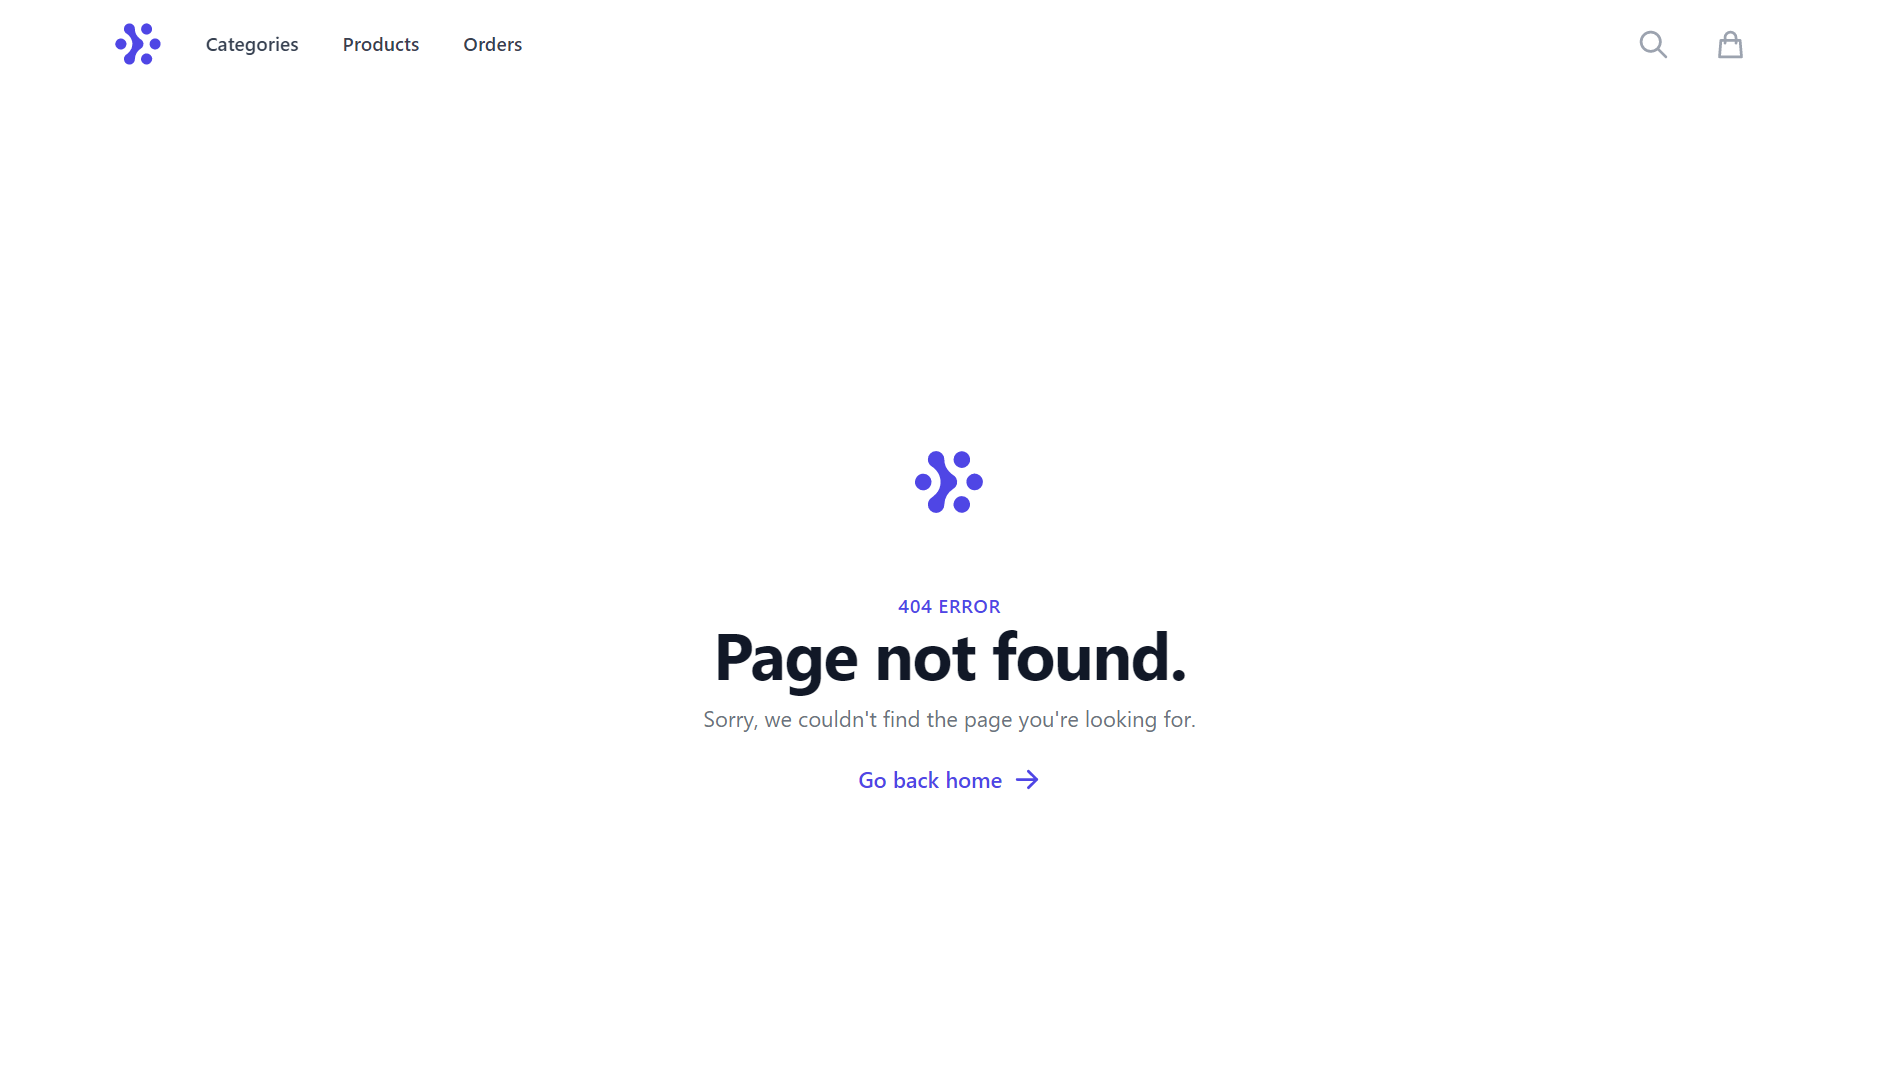
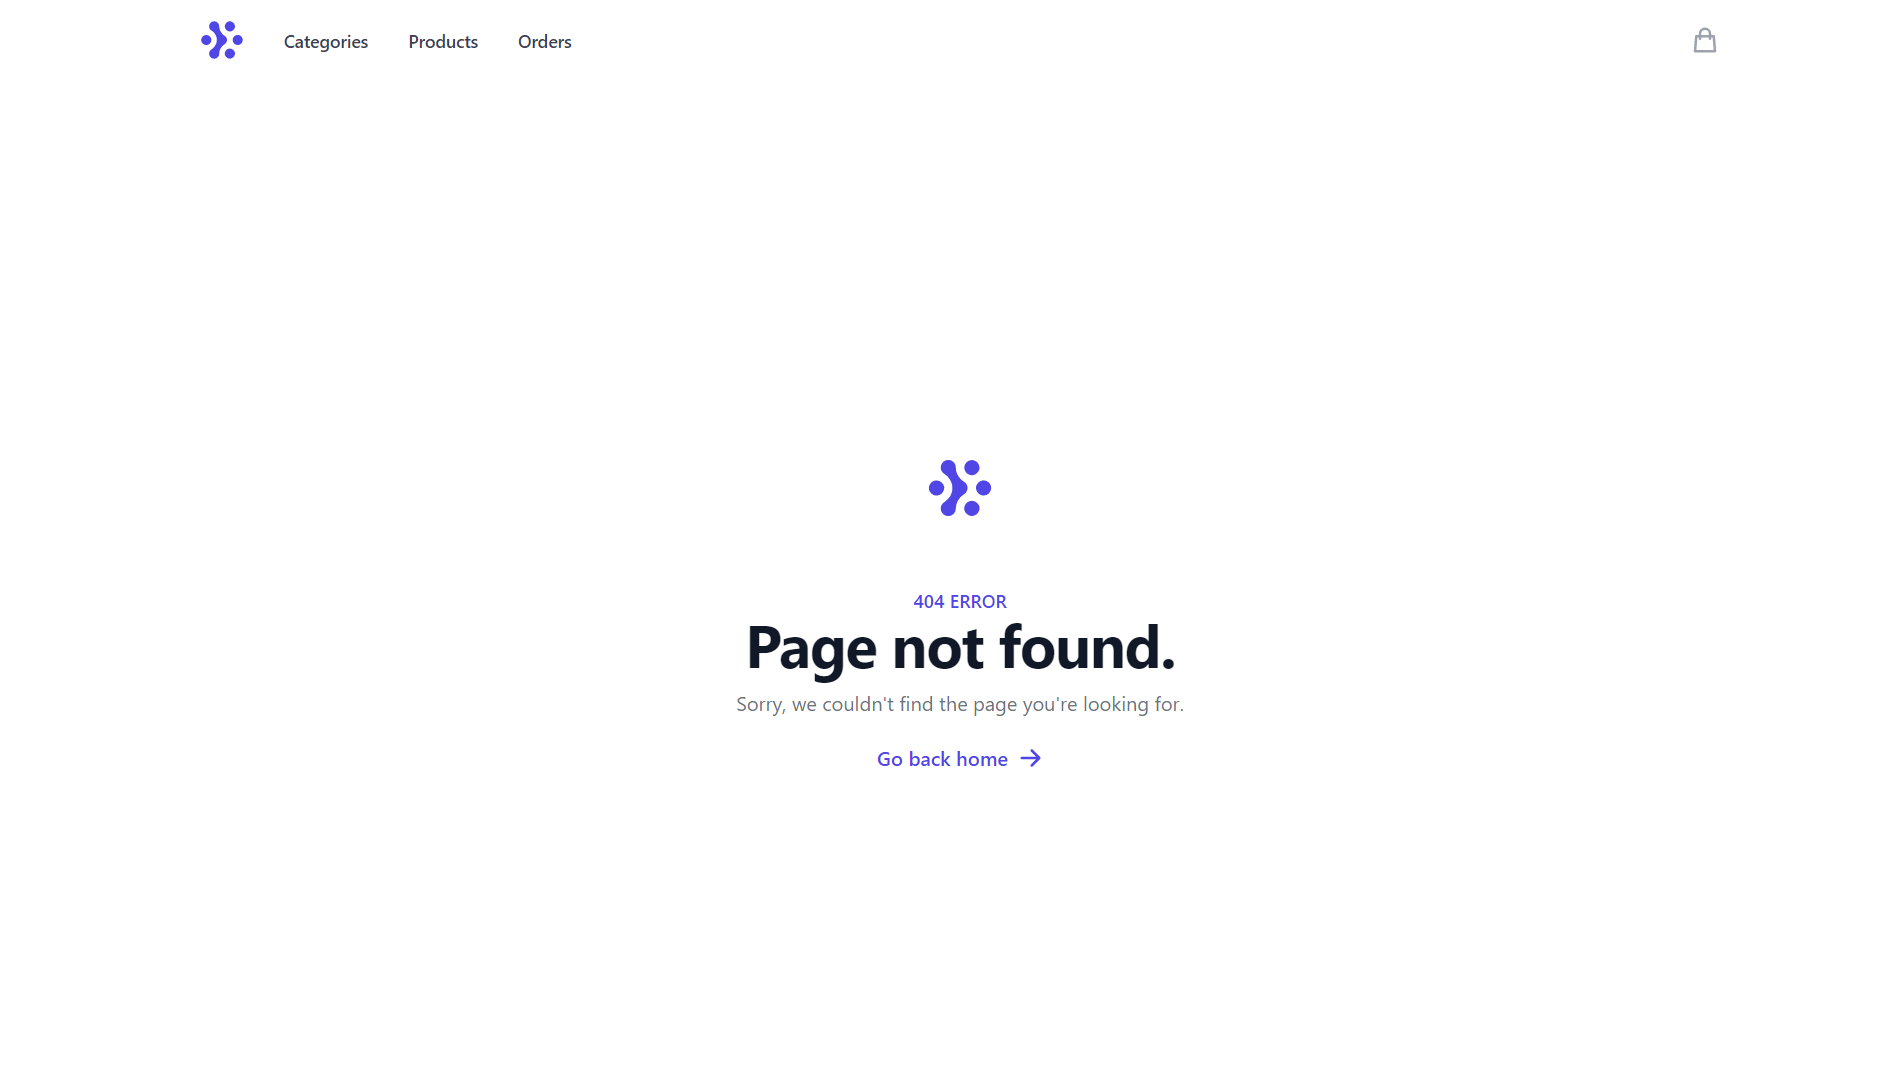
eCommerceApp | Screenshots added.

diff --git a/client/src/components/Cart/Cart.js b/client/src/components/Cart/Cart.js
@@ -1,16 +1,27 @@
-import { useContext} from "react";
+import { useState, useContext, Fragment } from "react";
 import CartContext from "../../contexts/CartProvider";
 import { Link } from "react-router-dom";
-import { InformationCircleIcon } from "@heroicons/react/outline";
+import {
+  InformationCircleIcon,
+  CheckCircleIcon,
+} from "@heroicons/react/outline";
+import { Dialog, Transition } from "@headlessui/react";
 import { baseService } from "../../services/ApiCall";
-
 
 const Cart = () => {
   const { cart, setCart } = useContext(CartContext);
-  // const cart = JSON.parse(localStorage.getItem('cart'));
+  const [isOpen, setIsOpen] = useState(false);
+
+  //#region Close modal
+  const closeModal = () => {
+    setIsOpen(false);
+  };
+  //#endregion
 
   //#region Total price and shipping calculating operations
-  const calculateSubtotal = parseFloat(cart.reduce((a, b) => a + b.price * b.quantity, 0).toFixed(2));
+  const calculateSubtotal = parseFloat(
+    cart.reduce((a, b) => a + b.price * b.quantity, 0).toFixed(2)
+  );
   //orders under 100$ shipping charge is 10% of total charge
   const calculateShipping = (total) => {
     let price = parseFloat(total);
@@ -22,15 +33,19 @@ const Cart = () => {
 
   //#region Total amount to be paid
   const calculateTotal = () => {
-    return parseFloat((calculateSubtotal + calculateShipping(calculateSubtotal)).toFixed(2));
+    return parseFloat(
+      (calculateSubtotal + calculateShipping(calculateSubtotal)).toFixed(2)
+    );
   };
   //#endregion
-  
+
   //#region Amount of items in cart
   const increaseQuantity = (product) => {
     setCart((prev) => {
       let cartItem = prev.find((q) => q.id === product.id);
-      product.quantity < 10 ? (cartItem.quantity += 1) : cartItem.quantity = 10;
+      product.quantity < 10
+        ? (cartItem.quantity += 1)
+        : (cartItem.quantity = 10);
       return [...prev];
     });
   };
@@ -43,25 +58,36 @@ const Cart = () => {
   };
 
   //#endregion
-  
-    const addOrder = async () => {
+
+  //#region Remove item from cart
+  const removeItem = (id) => {
+    setCart((prev) => prev.filter((q) => q.id !== id));
+  };
+  //#endregion
+
+  //#region Add order
+  const addOrder = async () => {
     try {
-        if (cart.length > 0) {
-            const products=cart.map(x => ({productId:x.id,quantity:x.quantity}))
-            const d= new Date();
-            const data = {userId:2, date: d, products:products };
-            await baseService.post('/carts', data)
-            console.log("Successfully added to cart", data)
-            setCart([]);
-        } else {
-            throw new Error('[ERROR]: Cart is empty');
-        }
+      if (cart.length > 0) {
+        const products = cart.map((x) => ({
+          productId: x.id,
+          quantity: x.quantity,
+        }));
+        const d = new Date();
+        const data = { userId: 2, date: d, products: products };
+        await baseService.post("/carts", data);
+        console.log("Successfully added to cart", data);
+        setCart([]);
+        setIsOpen(true);
+      } else {
+        throw new Error("[ERROR]: Cart is empty");
+      }
     } catch (err) {
-        console.log('[ERROR]: ', err);
+      console.log("[ERROR]:", err);
     }
     // console.log(cart);
-}
-  const removeItem = (id) => {setCart(prev => prev.filter(q => q.id !== id))};
+  };
+  //#endregion
 
   return (
     <>
@@ -72,6 +98,69 @@ const Cart = () => {
               Shopping Cart
             </h1>
           </div>
+          {/*#region Order Successfully added to cart*/}
+          <Transition appear show={isOpen} as={Fragment}>
+            <Dialog
+              as="div"
+              className="fixed inset-0 z-10 overflow-y-auto"
+              onClose={closeModal}
+            >
+              <div className="min-h-screen px-4 text-center">
+                <Transition.Child
+                  as={Fragment}
+                  enter="ease-out duration-300"
+                  enterFrom="opacity-0"
+                  enterTo="opacity-100"
+                  leave="ease-in duration-200"
+                  leaveFrom="opacity-100"
+                  leaveTo="opacity-0"
+                >
+                  <Dialog.Overlay className="fixed inset-0 bg-black/40"/>
+                </Transition.Child>
+
+                {/* This element is to trick the browser into centering the modal contents. */}
+                <span
+                  className="inline-block h-screen align-middle"
+                  aria-hidden="true"
+                >
+                  &#8203;
+                </span>
+                <Transition.Child
+                  as={Fragment}
+                  enter="ease-out duration-300"
+                  enterFrom="opacity-0 scale-95"
+                  enterTo="opacity-100 scale-100"
+                  leave="ease-in duration-200"
+                  leaveFrom="opacity-100 scale-100"
+                  leaveTo="opacity-0 scale-95"
+                >
+                  <div className="inline-block w-full max-w-md py-8 my-8 overflow-hidden text-center align-middle transition-all transform bg-white shadow-xl rounded-lg">
+                    <CheckCircleIcon className="w-14 h-14 text-indigo-600 text-center mx-auto mb-4" />
+                    <Dialog.Title
+                      as="h3"
+                      className="text-lg font-medium leading-6 text-gray-900 text-center"
+                    >
+                      Thank you!
+                    </Dialog.Title>
+                    <div className="mt-2">
+                      <p className="text-sm text-gray-500 w-4/5 m-auto mb-5">
+                        Your order has been successfully created. We’ve sent you
+                        an email with all of the details of your order.
+                      </p>
+                    </div>
+                    <Link
+                      to="/"
+                      className="text-indigo-600 tracking-tight font-semibold hover:text-indigo-400"
+                    >
+                      Go to home page
+                    </Link>
+                  </div>
+                </Transition.Child>
+              </div>
+            </Dialog>
+          </Transition>
+          {/*#endregion */}
+
           <div
             className={
               cart.length > 0
@@ -113,11 +202,19 @@ const Cart = () => {
                       </div>
                       <div className="flex flex-1 mt-5 items-end justify-between text-sm">
                         <div className="flex items-center">
-                          <button onClick={() => decreaseQuantity(product)} className="flex items-center justify-center w-6 h-6 pb-1 rounded-full bg-indigo-100  font-bold text-indigo-600 active:bg-indigo-300">
+                          <button
+                            onClick={() => decreaseQuantity(product)}
+                            className="flex items-center justify-center w-6 h-6 pb-1 rounded-full bg-indigo-100  font-bold text-indigo-600 active:bg-indigo-300"
+                          >
                             -
                           </button>
-                          <p className="text-gray-500 px-3 ">{product.quantity}</p>
-                          <button onClick={() => increaseQuantity(product)} className="flex items-center justify-center w-6 h-6 pb-1 rounded-full bg-indigo-100  font-bold text-indigo-600 active:bg-indigo-300">
+                          <p className="text-gray-500 px-3 ">
+                            {product.quantity}
+                          </p>
+                          <button
+                            onClick={() => increaseQuantity(product)}
+                            className="flex items-center justify-center w-6 h-6 pb-1 rounded-full bg-indigo-100  font-bold text-indigo-600 active:bg-indigo-300"
+                          >
                             +
                           </button>
                         </div>
@@ -139,7 +236,7 @@ const Cart = () => {
             <div
               className={
                 cart.length > 0
-                  ? "flex flex-col py-8 lg:px-14 bg-gray-50 rounded-lg h-max md:w-1/3 md:ml-10"
+                  ? "flex flex-col py-8 px-8 lg:px-14 bg-gray-50 rounded-lg h-max md:w-1/3 md:ml-10"
                   : "hidden"
               }
             >
@@ -162,7 +259,10 @@ const Cart = () => {
                 <p className="">{calculateTotal()} $</p>
               </div>
               <div className="mt-6 flex flex-col">
-                <button className="rounded-md border border-transparent bg-indigo-600 px-6 py-3 text-base font-medium text-white shadow-sm hover:bg-indigo-700" onClick={addOrder}>
+                <button
+                  className="rounded-md border border-transparent bg-indigo-600 px-6 py-3 text-base font-medium text-white shadow-sm hover:bg-indigo-700"
+                  onClick={addOrder}
+                >
                   Checkout
                 </button>
                 <button

diff --git a/client/src/components/Order/OrderList.js b/client/src/components/Order/OrderList.js
@@ -1,4 +1,5 @@
 import { useState, useEffect } from "react";
+import { Link } from "react-router-dom";
 import { baseService } from "../../services/ApiCall";
 
 const OrderList = () => {
@@ -42,18 +43,23 @@ const OrderList = () => {
             key={order.id}
             className="mx-auto pt-10 pb-16 sm:pb-24 lg:pb-32 lg:max-w-7xl"
           >
-            <h3>{order.date}</h3>
+            {/* <h3>{order.date}</h3> */}
+            <div className="flex flex-col">
             {order.products.map((product) => (
-              <div key={product.productId}>
-                {product.productId} - Qty {product.quantity}
+              <div key={product.productId} className="flex flex-col px-10 pt-5 gap-y-10 border-b border-gray-200">
                 {
                   products.filter((p) => p.id === product.productId).map(product =>
-                    (<div>
-                      {product.image}
+                    (<div key={product.id} className="flex flex-row">
+                      <img src={product.image} alt="product" className="w-24 h-24 object-contain rounded-md border border-gray-200 bg-white mr-11"/>
+                      <Link to={`/products/${product.id}`}>
+                      <h5 className="font-bold text-justify">{product.title}</h5>
+                      </Link>
                     </div>))
                 }
+              <p className="relative md:bottom-20 md:left-36 md:-mb-8">Quantity: {product.quantity}</p> 
               </div>
             ))}
+            </div>
           </div>
         ))}
       </section>

diff --git a/client/src/components/Header/Header.js b/client/src/components/Header/Header.js
@@ -117,12 +117,12 @@ export default function Header() {
               <div className="ml-auto flex items-center">
 
                 {/* Search */}
-                <div className="flex lg:ml-6">
+                {/* <div className="flex lg:ml-6">
                   <a href="/" className="p-2 text-gray-400 hover:text-gray-500">
                     <span className="sr-only">Search</span>
                     <SearchIcon className="w-6 h-6" aria-hidden="true" />
                   </a>
-                </div>
+                </div> */}
 
                 {/* Cart */}
                 <div className="ml-4 flow-root lg:ml-6">

diff --git a/client/src/components/Products/Products.js b/client/src/components/Products/Products.js
@@ -42,8 +42,9 @@ const getProducts = async () => {
         } else {
             const cartProduct = {
                 id: product.id,
-                title: product.name,
-                price: product.unitPrice,
+                title: product.title,
+                price: product.price,
+                image:product.image,
                 quantity: 1
             }
 

diff --git a/client/src/components/ProductDetail/ProductDetail.js b/client/src/components/ProductDetail/ProductDetail.js
@@ -109,7 +109,7 @@ const getProducts = async () => {
                   aria-current="page"
                   className="font-medium text-gray-500 hover:text-gray-600"
                 >
-                  {product.name}
+                  {product.title}
                 </Link>
               </li>
             </ol>

diff --git a/README.md b/README.md
@@ -1,18 +1,43 @@
 # eCommerceApp
 ## About Project
 
-This repository contain an e-commerce app project. Northwind APIs were used 
-Context API was used for state management.
-Tailwind CSS was used for UI design.
+This repository contains an e-commerce app project developed with React. In this project, [Fake Store API](https://fakestoreapi.com/) was used as service, Context API was used for state management and Tailwind CSS was used for UI design. No authentication system was used.
 
-## Installation
-
+- **Home:** Home page contains Categories Section and Top 10 Products Section. All categories are shown in Categories Section and first 10 products fetched from API are listed in Top 10 Products Section. 
+- **Categories:** All categories are listed in categories section. Customer can view products by category when they click any category. 
+- **Products:** All fetched products from API are listed in products section. Customer can view product detail when they click the product and add to cart by clicking "Add to basket" button.
+- **Cart:** All products in the cart, shipping charge and total price are listed in cart page. According to this scenario, shipping charge is calculated as 10% of total price in orders under 100\$. Shipping is free of charge in orders over 100\$. 
+Customer can increase/decrease quantity of products or remove any item or empty the cart by clicking "Empty the cart" button if they want. Order is created when "Checkout" button is clicked.
+- **Orders:** Customer can display their all orders in orders section. Name, image and quantity of products can be viewed in orders.
 ## Screenshots
 #### Desktop Screenshots
 
+![ss-desktop](./screenshots/screenshot-desktop-home.png)
+<br> 
+![ss-desktop](./screenshots/screenshot-desktop-categories.png)
+<br> 
+![ss-desktop](./screenshots/screenshot-desktop-products.png)
+<br> 
+![ss-desktop](./screenshots/screenshot-desktop-product-detail.png)
+<br> 
+![ss-desktop](./screenshots/screenshot-desktop-cart.png)
+<br> 
+![ss-desktop](./screenshots/screenshot-desktop-order-success.png)
+<br> 
 ![ss-desktop](./screenshots/screenshot-desktop-not-found.png)
 
 #### Mobile Screenshots
+
+![ss-mobile](./screenshots/screenshot-mobile-home.png)
+<br>  
+![ss-mobile](./screenshots/screenshot-mobile-products-by-category.png)
+<br> 
+![ss-mobile](./screenshots/screenshot-mobile-product-detail.png)
+<br> 
+![ss-mobile](./screenshots/screenshot-mobile-cart.png)
+<br> 
+![ss-mobile](./screenshots/screenshot-mobile-order-success.png)
+<br> 
 ![ss-mobile](./screenshots/screenshot-mobile-not-found.png)
 ## Used Technologies
 
@@ -25,4 +50,19 @@ Tailwind CSS was used for UI design.
 
 ## Credits
 
-Please give me feedback if you have a suggestion or you've noticed any bug/error in my project.
+<div align="center">
+
+**Özge Demiryol**
+
+<a href="https://linkedin.com/in/ozge-demiryol" target="_blank">
+  <img src="https://img.shields.io/badge/LinkedIn-0077B5?style=for-the-badge&logo=linkedin&logoColor=white">
+</a>
+<a href="https://github.com/ozge-demiryol" target="_blank">
+  <img src="https://img.shields.io/badge/GitHub-100000?style=for-the-badge&logo=github&logoColor=white">
+</a>
+
+</br>
+
+If you have any recommendation about project or noticed any error/bug, please give me feedback. 
+</div>
+
